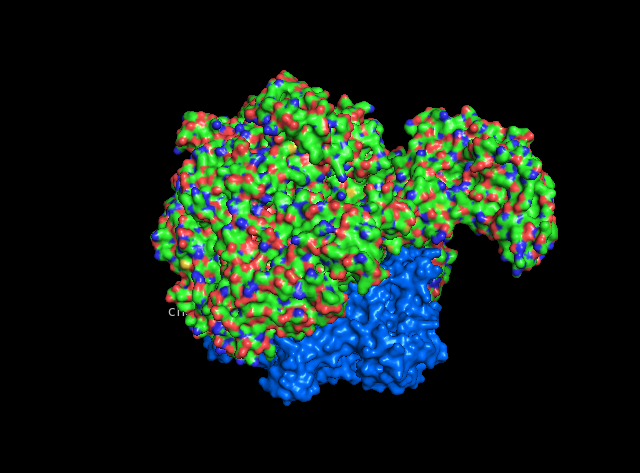
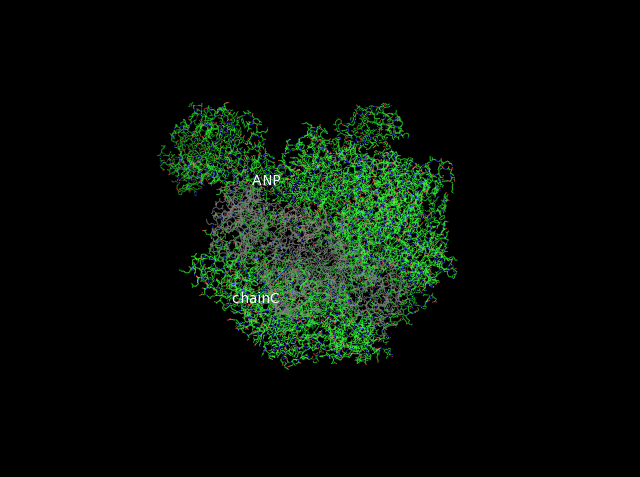
Updated manual.md

Changed region(s): [[0.2188, 0.148, 0.875, 0.8584]]

diff --git a/manual.md b/manual.md
@@ -17,13 +17,20 @@ complex to make sure the part is not translated into the object.
 in the modules of PyMOL.
 
 ###USAGE:
-explosion(list of objects, [type of explosion [,complex]])
+
+explosion selected [,typeOfExplosion [,complex [,removeSolvents [,exclude [, cutoff [,colorBinding]]]]]]
 
 ###ARGUMENTS:
-- list of objects: 	list of strings 	Objects' names to explode
-- type of explosion: 	string 				'com'(default) or 'canonical'
-- complex:			string				Name of object relative to the part of molecule which shall be translated
-
+- selected: 	names of objects to explode
+- typeOfExplosion: 	'com'(default) or 'canonical'
+- complex:	Name of object relative to the part of molecule which shall be translated
+- removeSolvents: boolean (default: true), removes all solvents and ligands with occurance bigger than cutoff value
+- exclude: 3-letter code of ligand which shall not be removed (if occurance is known to be bigger than cutoff)
+- cutoff: default: 10, occurance in PDB in total
+- colorBinding:
+ - individual (default): each chain has an individual color, binding sites are colored by the colors of according chains
+ - gray: all chains are colored gray, each binding site is colored individually
+ - none: no color is changed
 
 ###EXAMPLES:
 ```python
@@ -31,26 +38,23 @@ explosion(list of objects, [type of explosion [,complex]])
 	run explosion_movie.py
 ```
 ```python
+	reinitialize
 	# load molecule in PyMOL:
 	fetch 3oaa, type='pdb1'
-
-	# run explosion_movie.py from absolute directory:
-	run C:/.../explosion_movie.py
-
-	# either explode complete molecule:
-	explosion(['3oaa'])
+	# either explode complete molecule with default values:
+	explosion 3oaa
 	```
-![](images/3oaa_complete_start.png)
+![](images/3oaa_individual_start.png)
 
-![](images/3oaa_complete.png)
-
-![](images/3oaa_complete_end.png)
+![](images/3oaa_individual_end.png)
 
 ```python
-	# or parts of it:
-	create ABCDEF, chain A chain B chain C chain D chain E chain F
-	create GH, chain G chain H
-	explosion(['ABCDEF','GH'])
+	# or parts of it, e.g. with colorBinding=gray:
+	reinitialize
+	fetch 3oaa, type='pdb1'
+	extract AA, chain A chain B chain C chain D chain E chain F
+	extract BB, chain G chain H
+	explosion AA BB, colorBinding = gray
 ```
 ![](images/3oaa_parts_start.png)
 
@@ -59,15 +63,17 @@ explosion(list of objects, [type of explosion [,complex]])
 ![](images/3oaa_parts_2.png)
 
 ![](images/3oaa_parts_end.png)
+
 ```python
-	# or explode canonical:
-	explosion(['3oaa'], 'canonical')
+	# or explode canonical without and canonical:
+	explosion 3oaa, typeOfExplosion = canonical, colorBinding = none
 ```
 ![](images/3oaa_canonical_start.png)
 
 ![](images/3oaa_canonical_end.png)
 
 ```python
+  reinitialize
 	# load multiple symmetry operators
 	fetch 3oaa
 
@@ -75,27 +81,30 @@ explosion(list of objects, [type of explosion [,complex]])
 	cmd.set('ignore_case', 'off')
 
 	# create object for every symmetry unit
-	create mol1, chain A chain B chain  C chain D chain  E chain F chain G chain  H
-	create mol2, chain I chain J chain  K chain L chain  M chain N chain O chain  P
-	create mol3, chain Q chain R chain  S chain T chain  U chain V chain W chain  X
-	create mol4, chain Y chain Z chain  a chain b chain  c chain d chain e chain  f
+	extract mol1, chain A chain B chain  C chain D chain  E chain F chain G chain  H
+	extract mol2, chain I chain J chain  K chain L chain  M chain N chain O chain  P
+	extract mol3, chain Q chain R chain  S chain T chain  U chain V chain W chain  X
+	extract mol4, chain Y chain Z chain  a chain b chain  c chain d chain e chain  f
 
-	explosion(['mol1', 'mol2', 'mol3', 'mol4'])
+	explosion mol1 mol2 mol3 mol4
 ```
 ![](images/3oaa_multi_start.png)
 
 ![](images/3oaa_multi1.png)
 
+![](images/3oaa_multi2.png)
+
 ![](images/3oaa_multi_end.png)
 
 ```python
+    reinitialize
 	# portein with multiple states:
 	fetch 5k7l, type=pdb1
 
 	# create object for every state
 	split_states 5k7l
-
-	explosion(['5k7l_0001', '5k7l_0002', '5k7l_0003', '5k7l_0004'])
+    remove 5k7l
+    explosion 5k7l_0001 5k7l_0002 5k7l_0003 5k7l_0004, colorBinding = gray
 ```
 ![](images/5k7l_start.png)
 
@@ -108,10 +117,20 @@ explosion(list of objects, [type of explosion [,complex]])
 	fetch 3oaa, type = pdb1
 
 	# create object for part or molecule
-	extract chainA, chain A
+	create chainA, chain A
 
-	explosion(['chainA'], 'com', '3oaa')
+	explosion chainA, complex = 3oaa, colorBinding = gray
 ```
 ![](images/chain_start.png)
 
 ![](images/chain_end.png)
+
+```python
+  # exclude known detergents from removing
+  reinitialize
+  fetch 5k7l
+  explosion 5k7l, exclude = Y01 NAG
+```
+![](images/5k7l_det_start.png)
+
+![](images/5k7l_det_end.png)
